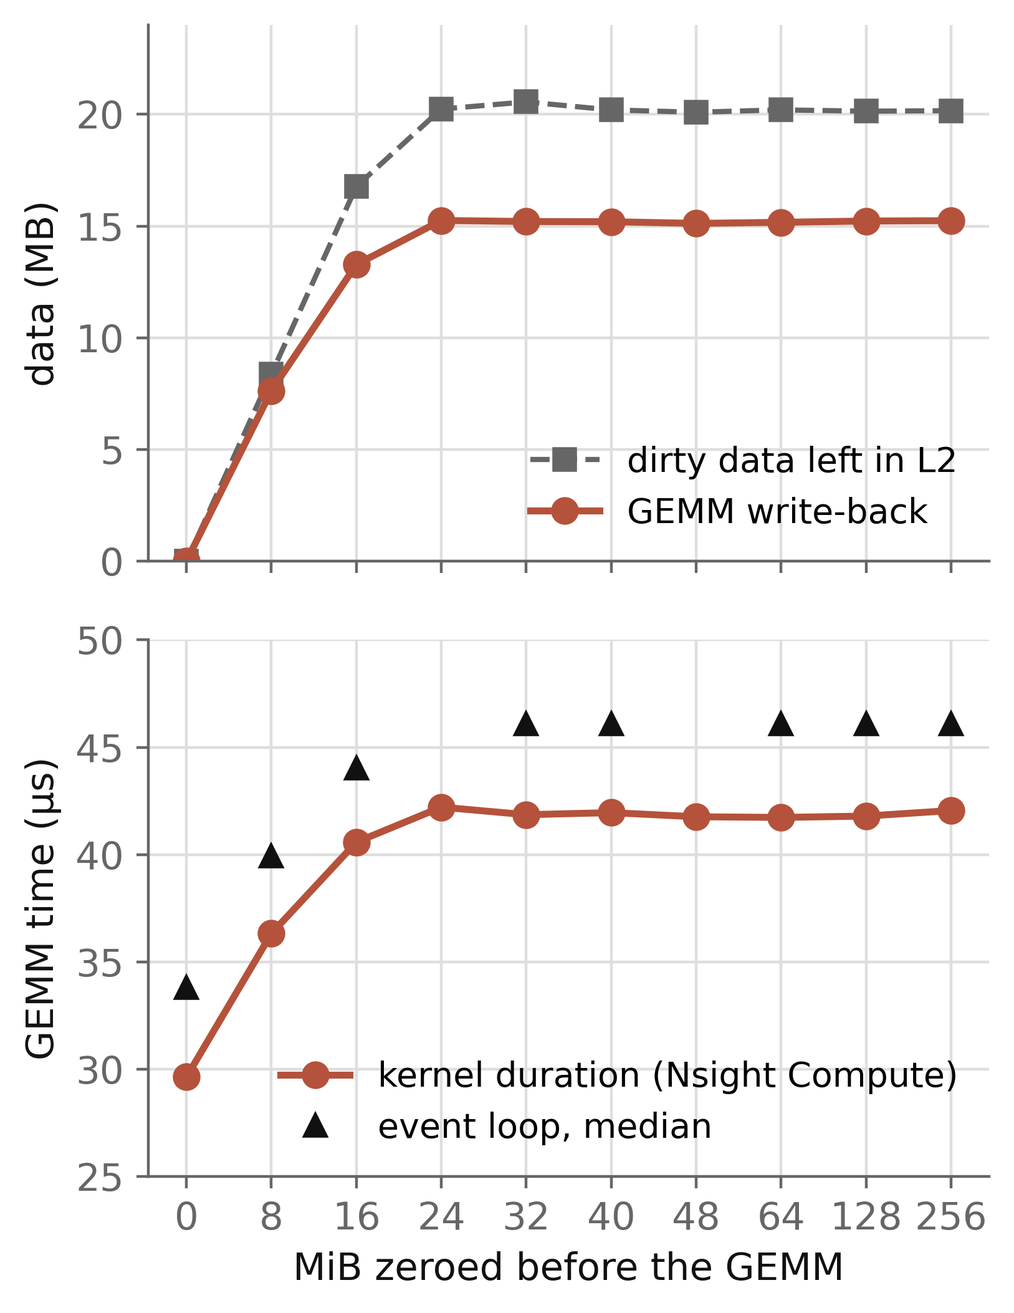
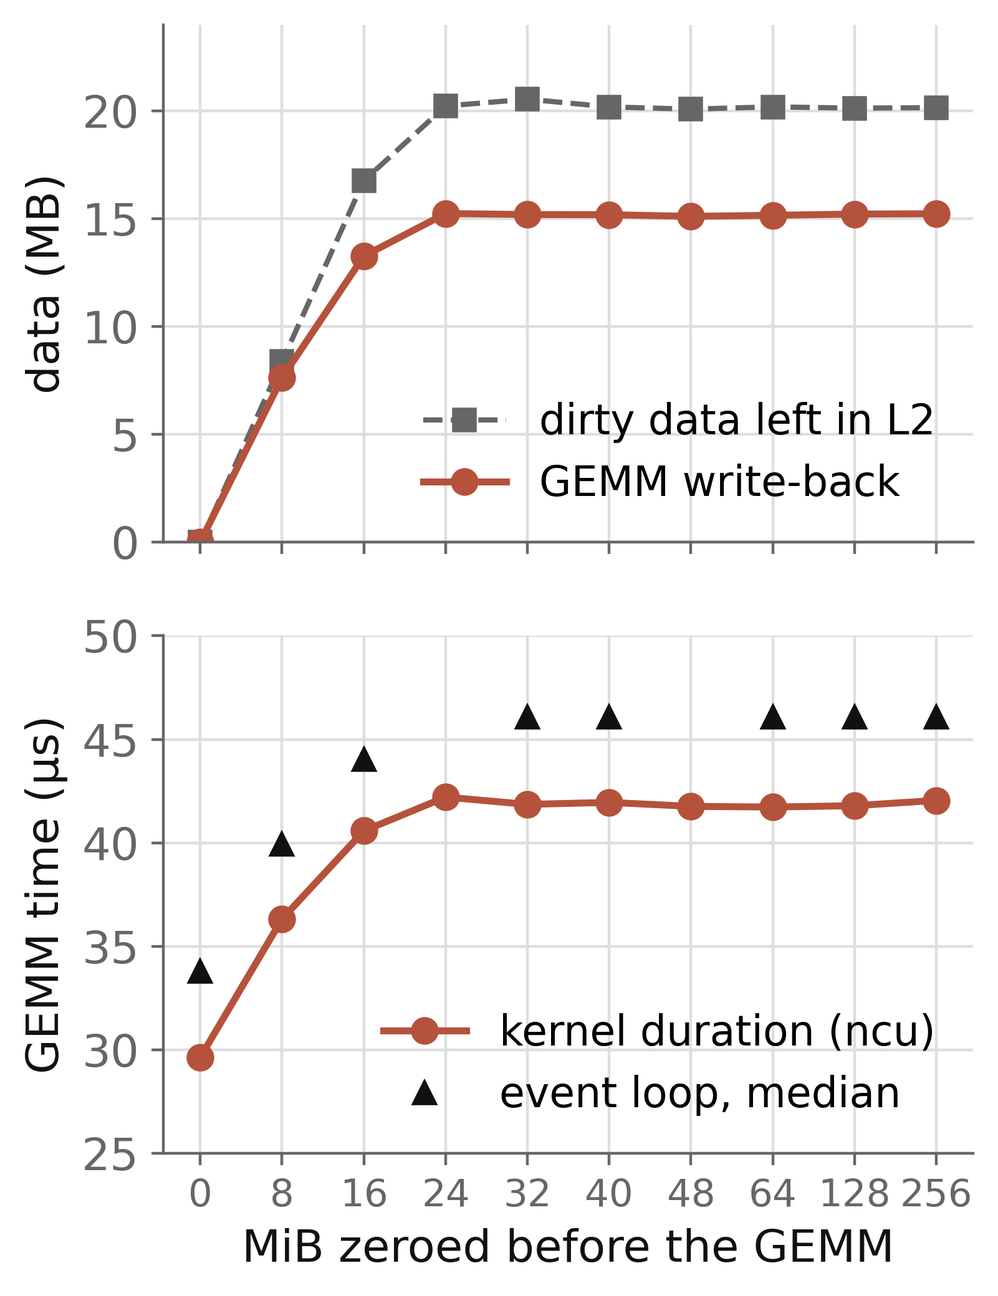
Revise do_bench note after live review
Consistent Nsight Compute numbers across sections, scoped deck, event vs
Nsight gap stated, larger figure text, social image, mobile table column.

diff --git a/writing/do-bench-dirty-l2/index.html b/writing/do-bench-dirty-l2/index.html
@@ -4,19 +4,24 @@
 <meta charset="utf-8">
 <meta name="viewport" content="width=device-width, initial-scale=1">
 <title>Triton’s do_bench L2 Flush Adds 12–20 µs to One-Row BF16 GEMMs on an A100 - Sense Wang</title>
-<meta name="description" content="triton.testing.do_bench clears L2 by writing zeros. The timed kernel then writes those dirty lines back to HBM. On an A100 this adds 12–20 µs to one-row BF16 GEMMs and can change which kernel looks faster. A read pass after the flush removes the cost.">
+<meta name="description" content="triton.testing.do_bench clears L2 with zero_(). On an A100 the dirty lines add 12–20 µs to one-row BF16 GEMMs. A read pass after the flush removes the cost.">
 <link rel="canonical" href="https://sensewang.com/writing/do-bench-dirty-l2/">
 <meta property="og:type" content="article">
 <meta property="og:site_name" content="Sense Wang">
 <meta property="og:title" content="Triton’s do_bench L2 Flush Adds 12–20 µs to One-Row BF16 GEMMs on an A100">
-<meta property="og:description" content="triton.testing.do_bench clears L2 by writing zeros. The timed kernel then writes those dirty lines back to HBM. On an A100 this adds 12–20 µs to one-row BF16 GEMMs and can change which kernel looks faster. A read pass after the flush removes the cost.">
+<meta property="og:description" content="triton.testing.do_bench clears L2 with zero_(). On an A100 the dirty lines add 12–20 µs to one-row BF16 GEMMs. A read pass after the flush removes the cost.">
 <meta property="og:url" content="https://sensewang.com/writing/do-bench-dirty-l2/">
 <meta property="og:locale" content="en_US">
+<meta property="og:image" content="https://sensewang.com/writing/do-bench-dirty-l2/assets/og-card.png">
+<meta property="og:image:width" content="1200">
+<meta property="og:image:height" content="630">
+<meta property="og:image:alt" content="Time per call of one 4096 × 4096 BF16 GEMM under five timing methods: 46.1 µs with the zero_() flush, 33.8 µs with a read flush, 29.2 µs in a rotating-weight CUDA graph.">
 <meta property="article:published_time" content="2026-10-30">
 <meta property="article:author" content="Sense Wang">
-<meta name="twitter:card" content="summary">
+<meta name="twitter:card" content="summary_large_image">
+<meta name="twitter:image" content="https://sensewang.com/writing/do-bench-dirty-l2/assets/og-card.png">
 <meta name="twitter:title" content="Triton’s do_bench L2 Flush Adds 12–20 µs to One-Row BF16 GEMMs on an A100">
-<meta name="twitter:description" content="triton.testing.do_bench clears L2 by writing zeros. The timed kernel then writes those dirty lines back to HBM. On an A100 this adds 12–20 µs to one-row BF16 GEMMs and can change which kernel looks faster. A read pass after the flush removes the cost.">
+<meta name="twitter:description" content="triton.testing.do_bench clears L2 with zero_(). On an A100 the dirty lines add 12–20 µs to one-row BF16 GEMMs. A read pass after the flush removes the cost.">
 <link rel="stylesheet" href="reader.css">
 <style>
   .site-nav { max-width:1440px; margin:0 auto 48px; padding:24px var(--gutter) 0; font-size:14px; line-height:20px; color:var(--muted); letter-spacing:normal; }
@@ -34,7 +39,7 @@
 
 <header class="article-header">
   <h1>Triton’s do_bench L2 Flush Adds <span style="white-space:nowrap">12–20&nbsp;µs</span> to One-Row BF16 GEMMs on an A100</h1>
-  <p class="deck">If you time short memory-bound kernels with <code>triton.testing.do_bench</code>, PyTorch Inductor, TileLang or nvbench, the number includes write-back of the flush buffer. A read pass after the flush removes it (section 5).</p>
+  <p class="deck">If you time memory-bound kernels that read less than a few hundred MB with <code>triton.testing.do_bench</code> or PyTorch Inductor, the number includes write-back of the flush buffer. Here that is 11–41% at 34–235 MB and 2.5% at 1.05 GB. TileLang and nvbench use the same kind of flush; I read their code but did not run them. A read pass after the flush removes the cost (section 5).</p>
   <p class="metadata">Sense Wang · October 2026</p>
 </header>
 
@@ -72,7 +77,7 @@ def clear_cache(self, cache):
     <p><strong>Setup.</strong> All measurements in sections 1–5 and 7 ran on one A100-PCIE-40GB, in one job. One Nsight Compute check in section 4 ran later on another A100 of the same server. Software: PyTorch 2.13.0 (CUDA 13.0 build), Triton 3.7.1, Nsight Compute 2025.1.1. Buffer sizes are in MiB. Byte counts from Nsight Compute are in MB (10<sup>6</sup> bytes). I wrote predictions before each run. Section 6 lists the ones that failed.</p>
 
     <h3>Write-back bytes in Nsight Compute</h3>
-    <p>I ran the GEMM under Nsight Compute with two options. <code>--cache-control none</code> keeps the profiler away from the cache. <code>--replay-mode application</code> takes each metric from a real pass of the whole program.</p>
+    <p>I ran the GEMM under Nsight Compute with three options. <code>--cache-control none</code> keeps the profiler away from the cache. <code>--clock-control none</code> leaves the GPU clocks as they are. <code>--replay-mode application</code> takes each metric from a real pass of the whole program.</p>
     <p>Before each GEMM, the program read a 256 MiB buffer, which leaves L2 clean. Then it zeroed a buffer of X MiB. Then it ran the GEMM. I repeated each case three times and report the median.</p>
     <p>With X = 0, the GEMM reads 33.56 MB, writes 0.02 MB and takes 29.63 µs. With X = 256, it reads the same 33.56 MB, writes 15.24 MB and takes 42.05 µs. Its own output is 8 KB, so the 15 MB is write-back of the zero buffer. The kernel takes 42% longer.</p>
     <p>The extra time matches the extra bytes. The clean kernel moves 33.56 MB at 1.13 TB/s. The dirty kernel moves 48.80 MB at 1.16 TB/s.</p>
@@ -81,19 +86,19 @@ def clear_cache(self, cache):
     <p>If the write-back causes the slowdown, the write-back and the time must both grow with X. Both must also stop growing at the same X. Figure 1 shows the result.</p>
   </div></div>
   <div class="layout block"><figure class="media">
-    <img src="assets/fig1-dose.png" alt="Two panels against MiB zeroed before the GEMM, from 0 to 256. Top: dirty data left in L2 rises to about 20 MB at 24 MiB, then stays flat. GEMM write-back rises to about 15 MB at 24 MiB, then stays flat. Bottom: GEMM kernel duration rises from about 30 to about 42 microseconds at 24 MiB, then stays flat. Event-loop medians follow the same shape about 4 microseconds higher." width="1627" height="2106" loading="lazy">
+    <a href="assets/fig1-dose.png"><img src="assets/fig1-dose.png" alt="Two panels against MiB zeroed before the GEMM, from 0 to 256. Top: dirty data left in L2 rises to about 20 MB at 24 MiB, then stays flat. GEMM write-back rises to about 15 MB at 24 MiB, then stays flat. Bottom: GEMM kernel duration rises from about 30 to about 42 microseconds at 24 MiB, then stays flat. Event-loop medians follow the same shape about 4 microseconds higher." width="1601" height="2080" loading="lazy"></a>
     <figcaption>Figure 1. A 4096 × 4096 BF16 GEMM with one input row, after a read flush and a zero_() flush of X MiB. The x axis is categorical. Top: HBM bytes written by the GEMM, from Nsight Compute. “Dirty data left in L2” is the bytes zeroed minus the fill kernel’s own HBM writes. Bottom: kernel duration in Nsight Compute, median of 3. Triangles: event-loop median of 1,500 samples, from a separate run without the profiler. That run used X = 0, 8, 16, 32, 40, 64, 128 and 256 MiB. Author’s measurements.</figcaption>
   </figure></div>
   <div class="layout block"><div class="prose">
     <p>A zero_() flush of 8 MiB leaves all 8.4 MB dirty, and the GEMM writes back 7.6 MB. At 16 MiB, the GEMM writes back 13.3 MB. From 24 MiB up, the fill kernel starts to write its own data to HBM. The GEMM write-back then stays at 15.1–15.3 MB. The kernel duration follows it: 29.6, 36.3, 40.6, then 41.7–42.2 µs. The slope is about 0.8 µs per MB of write-back.</p>
-    <p>The dirty data stops at about 19–20 MB. Two direct measurements agree. A read pass after a 256 MiB zero_() flush writes back 19.1–19.3 MB. A GEMM that reads 235 MB or 1.05 GB writes back 19.3–19.4 MB. The 4096 × 4096 GEMM reads only 33.6 MB and evicts 15 MB of the 19–20 MB.</p>
-    <p>I do not know why the limit is about half of the 40 MB L2. One hypothesis follows. Clean data has a similar limit. A buffer of 24 MiB that is read twice misses 1.0 MB on the second read. A buffer of 28 MiB misses 8.3 MB. The A100 L2 has two partitions, and each partition caches data for the SMs connected to it <a href="#ref-11">[11]</a>. If both partitions keep a copy of data that all SMs touch, the usable capacity is about 20 MB. I did not verify this.</p>
+    <p>The dirty data stops at about 20 MB. In Figure 1, the square markers show 20.0–20.6 MB. They are computed as the bytes zeroed minus the fill kernel’s own HBM writes. Two direct measurements give about 1 MB less. A read pass after a 256 MiB zero_() flush writes back 19.1–19.3 MB. A GEMM that reads 235 MB or 1.05 GB writes back 19.3–19.4 MB. The 4096 × 4096 GEMM reads only 33.6 MB and evicts about 15 MB of it.</p>
+    <p>I do not know why the limit is about half of the 40 MB L2. One hypothesis follows. Clean data has a similar limit. If L2 holds only about 20 MB of any data, a second read of a larger buffer must miss. A buffer of 24 MiB that is read twice misses 1.0 MB on the second read. A buffer of 28 MiB misses 8.3 MB. The A100 L2 has two partitions, and each partition caches data for the SMs connected to it <a href="#ref-11">[11]</a>. If both partitions keep a copy of data that all SMs touch, the usable capacity is about 20 MB. I did not verify this.</p>
 
     <h3>Six timing methods in one process</h3>
     <p>An event loop is a Python loop that records a CUDA event before and after each call. I compared six methods in one process, in three interleaved rounds. Each process starts with one second of warm-up, so the SM clock is at 1410 MHz. I repeated this in five independent processes. Figure 2 gives the median and interquartile range (IQR) of all samples.</p>
   </div></div>
   <div class="layout block"><figure class="media">
-    <img src="assets/fig2-methods.png" alt="Dot plot of time per call for one GEMM under six timing methods. do_bench with the zero_() flush and an event loop with the zero_() flush: 46.1 microseconds. Event loop with a read flush, and do_bench with the zero_() flush plus a read pass: 33.8. CUDA graph with 6 rotating weight copies: 29.2. do_bench_cudagraph with no flush: 24.4." width="1420" height="1675" loading="lazy">
+    <a href="assets/fig2-methods.png"><img src="assets/fig2-methods.png" alt="Dot plot of time per call for one GEMM under six timing methods. do_bench with the zero_() flush and an event loop with the zero_() flush: 46.1 microseconds. Event loop with a read flush, and do_bench with the zero_() flush plus a read pass: 33.8. CUDA graph with 6 rotating weight copies: 29.2. do_bench_cudagraph with no flush: 24.4." width="1427" height="1695" loading="lazy"></a>
     <figcaption>Figure 2. The same 4096 × 4096 BF16 GEMM, one input row, under six timing methods. Dot: median. Bar: IQR. For the two CUDA-graph rows, the IQR is narrower than the dot. 5 processes. The event timer has a resolution of about 1.02 µs, so event-loop medians fall on a 1.02 µs grid. Author’s measurements.</figcaption>
   </figure></div>
   <div class="layout block"><div class="prose">
@@ -103,7 +108,7 @@ def clear_cache(self, cache):
       <li>A CUDA graph that cycles through six weight copies (201 MB, about five times the L2 size) gives 29.18 µs per call. In Nsight Compute, each of these GEMMs reads the full 33.56 MB from HBM, so the weight is cold.</li>
       <li><code>do_bench_cudagraph</code> does not flush L2. It gives 24.40 µs, 4.8 µs less than the cold-weight graph, because part of the weight stays in L2.</li>
     </ul>
-    <p>For this shape, the event-loop medians are about 4 µs above the Nsight Compute kernel duration. For the four larger shapes, the event loop with a read flush and the rotating-weight graph differ by −1.0 to +2.6 µs. I did not find the cause of the 4 µs. Across the five processes, the per-process medians of each method differ by one timer step at most.</p>
+    <p>For this shape, the event-loop medians are about 4 µs above the Nsight Compute kernel duration. A second kernel does not cause this gap. In <code>torch.profiler</code>, <code>F.linear</code> with one row launches exactly one GEMM kernel per call for this shape. For the 4096 × 28672 shape, cuBLAS also launches a memset per call. For the four larger shapes, the event loop with a read flush and the rotating-weight graph differ by −1.0 to +2.6 µs. I did not find the cause of the 4 µs. Across the five processes, the per-process medians of each method differ by one timer step at most.</p>
   </div></div>
 </section>
 
@@ -113,11 +118,11 @@ def clear_cache(self, cache):
     <p>The write-back is at most 19–20 MB on this card. A kernel that moves a similar amount of data pays a large relative cost. Figure 3 shows the slowdown for five weight shapes from Llama 3.1 8B, each with one input row. The shapes are the output projection, fused QKV, down projection, fused gate and up projection, and the LM head.</p>
   </div></div>
   <div class="layout block"><figure class="media">
-    <img src="assets/fig3-size.png" alt="Slowdown of do_bench relative to an event loop with a read flush, against weight size on a log axis. 4096 × 4096 (34 MB): 36.4 percent, 12.3 microseconds. 4096 × 6144 (50 MB): 40.5 percent, 17.4. 14336 × 4096 (117 MB): 18.1 percent, 17.4. 4096 × 28672 (235 MB): 10.9 percent, 19.5. 4096 × 128256 (1.05 GB): 2.5 percent, 18.4." width="1579" height="1390" loading="lazy">
-    <figcaption>Figure 3. Median time with <code>do_bench</code> divided by median time with a read-flush event loop, for BF16 GEMMs with one input row. Labels give the shape K × N, the relative slowdown and the absolute difference. 5 processes. Author’s measurements.</figcaption>
+    <a href="assets/fig3-size.png"><img src="assets/fig3-size.png" alt="Slowdown of do_bench relative to an event loop with a read flush, against weight size on a log axis. 4096 × 4096 (34 MB): 36.4 percent, 12.3 microseconds. 4096 × 6144 (50 MB): 40.5 percent, 17.4. 14336 × 4096 (117 MB): 18.1 percent, 17.4. 4096 × 28672 (235 MB): 10.9 percent, 19.5. 4096 × 128256 (1.05 GB): 2.5 percent, 18.4." width="1604" height="1599" loading="lazy"></a>
+    <figcaption>Figure 3. Median time with <code>do_bench</code> divided by median time with a read-flush event loop, for BF16 GEMMs with one input row. The percentages use the event-loop median as the base. Nsight Compute kernel durations give 42%, 9.6% and 2.2% for the 34 MB, 235 MB and 1.05 GB shapes. Labels give the shape K × N, the relative slowdown and the absolute difference. 5 processes. Author’s measurements.</figcaption>
   </figure></div>
   <div class="layout block"><div class="prose">
-    <p>The absolute cost is 12.3–19.5 µs. The relative cost falls from 36–41% for weights of 34–50 MB to 10.9% at 235 MB and 2.5% at 1.05 GB. Nsight Compute gives the same trend: 42%, 9.6% and 2.2% for the 34 MB, 235 MB and 1.05 GB weights. I did not measure compute-bound shapes.</p>
+    <p>The absolute cost is 12.3–19.5 µs. The relative cost falls from 36–41% for weights of 34–50 MB to 18.1% at 117 MB, 10.9% at 235 MB and 2.5% at 1.05 GB. Nsight Compute gives the same trend: 42%, 9.6% and 2.2% for the 34 MB, 235 MB and 1.05 GB weights. I did not measure compute-bound shapes.</p>
 
     <h3>The flush can change which kernel looks faster</h3>
     <p>The cost depends on how much the timed kernel reads. A kernel that reads less evicts fewer dirty lines and pays less. So a zero_() flush can favor a kernel that reads fewer bytes, or one that uses less of the HBM bandwidth.</p>
@@ -136,32 +141,32 @@ def clear_cache(self, cache):
   </div></div>
   <div class="layout block"><div class="prose">
     <p>With the read flush, the second INT8 configuration is 15% slower than cuBLAS. With the zero_() flush, it is 7% faster. 9 of the 96 configurations change rank in this way by at least 2 µs on each side, in all three processes. 5 more change rank by one timer step (1.02 µs) on one side. No configuration changes rank in the other direction. With the read flush, 55–57 configurations are faster than cuBLAS. With the zero_() flush, 71 are faster.</p>
-    <p>Nsight Compute on another A100 of the same server confirms the flip for the configuration in Table 1. Its kernel takes 35.7 µs against 30.3 µs for cuBLAS after a read flush. After a zero_() flush, it takes 39.2 µs against 41.8 µs. Here cuBLAS writes back 15.6 MB and the INT8 kernel writes back 6.7 MB. Per MB of write-back, cuBLAS pays 0.74 µs and the fastest INT8 configuration 0.84 µs. The Table 1 configuration pays only 0.53 µs per MB, probably because it uses less of the HBM bandwidth. The fastest INT8 configuration looks 1.65 times faster than cuBLAS with the read flush and 1.73–1.77 times faster with the zero_() flush, across the three processes. GEAK saw the same direction on an AMD MI355X. A decode speedup of 1.12 with a read flush became 1.40 with a write flush <a href="#ref-8">[8]</a>.</p>
+    <p>Nsight Compute on another A100 of the same server confirms the flip for the configuration in Table 1. Its kernel takes 35.7 µs against 30.3 µs for cuBLAS after a read flush. After a zero_() flush, it takes 39.2 µs against 41.8 µs. Here cuBLAS writes back 15.6 MB and the INT8 kernel writes back 6.7 MB. Per MB of write-back, cuBLAS pays 0.74 µs and the fastest INT8 configuration 0.84 µs. The Table 1 configuration pays only 0.53 µs per MB, probably because it uses less of the HBM bandwidth. The fastest INT8 configuration looks 1.65 times faster than cuBLAS with the read flush. With the zero_() flush, it looks 1.73–1.77 times faster across the three processes. GEAK saw the same direction on an AMD MI355X. A decode speedup of 1.12 with a read flush became 1.40 with a write flush <a href="#ref-8">[8]</a>.</p>
 
     <h3>Which tools flush with a write</h3>
     <p>I read the benchmark code of several tools on 2026-10-30. Table 2 gives the result.</p>
   </div></div>
   <div class="layout block"><div class="prose">
-    <p class="table-caption">Table 2. How benchmark helpers prepare L2 before a timed call. “Write” means the flush leaves dirty lines.</p>
+    <p class="table-caption">Table 2. How benchmark helpers prepare L2 before a timed call. “Write” means the flush leaves dirty lines. The Proton functions exist from Triton v3.8.0.</p>
     <div class="table-wrap"><table>
-      <thead><tr><th>Tool</th><th>Flush before each call</th><th>Type</th></tr></thead>
+      <thead><tr><th>Tool</th><th>Type</th><th>Flush before each call</th></tr></thead>
       <tbody>
-        <tr><td>Triton <code>do_bench</code>, v2.0.0 to v3.9.0 and main</td><td><code>zero_()</code>, 256 MiB (256e6 B before v3.2)</td><td>write</td></tr>
-        <tr><td>Triton <code>do_bench_proton</code>, <code>do_bench_cudagraph_proton</code> (v3.8.0 and later)</td><td><code>zero_()</code>, 256 MiB</td><td>write</td></tr>
-        <tr><td>Triton <code>do_bench_cudagraph</code></td><td>none</td><td>warm L2</td></tr>
-        <tr><td>PyTorch Inductor default benchmarker</td><td><code>zero_()</code>, L2 size</td><td>write</td></tr>
-        <tr><td>TileLang <code>do_bench</code></td><td><code>zero_()</code>, 256 MiB</td><td>write</td></tr>
-        <tr><td>ThunderKittens <code>benchmark_l2_clear</code></td><td><code>random_()</code>, 128 MiB</td><td>write</td></tr>
-        <tr><td>NVIDIA nvbench</td><td><code>cudaMemsetAsync</code>, L2 size</td><td>write</td></tr>
-        <tr><td>GPU MODE reference-kernels</td><td><code>torch.randn</code>, 4 GiB</td><td>write</td></tr>
-        <tr><td><code>torch.utils.benchmark.Timer</code></td><td>none</td><td>warm L2</td></tr>
-        <tr><td>Nsight Compute, <code>--cache-control all</code></td><td>driver operation; a write kernel on vGPU</td><td>clean on this A100</td></tr>
+        <tr><td>Triton <code>do_bench</code></td><td>write</td><td><code>zero_()</code>, 256 MiB</td></tr>
+        <tr><td>Triton <code>do_bench_proton</code>, <code>do_bench_cudagraph_proton</code></td><td>write</td><td><code>zero_()</code>, 256 MiB</td></tr>
+        <tr><td>Triton <code>do_bench_cudagraph</code></td><td>warm L2</td><td>none</td></tr>
+        <tr><td>PyTorch Inductor default benchmarker</td><td>write</td><td><code>zero_()</code>, L2 size</td></tr>
+        <tr><td>TileLang <code>do_bench</code></td><td>write</td><td><code>zero_()</code>, 256 MiB</td></tr>
+        <tr><td>ThunderKittens <code>benchmark_l2_clear</code></td><td>write</td><td><code>random_()</code>, 128 MiB</td></tr>
+        <tr><td>NVIDIA nvbench</td><td>write</td><td><code>cudaMemsetAsync</code>, L2 size</td></tr>
+        <tr><td>GPU MODE reference-kernels</td><td>write</td><td><code>torch.randn</code>, 4 GiB</td></tr>
+        <tr><td><code>torch.utils.benchmark.Timer</code></td><td>warm L2</td><td>none</td></tr>
+        <tr><td>Nsight Compute, <code>--cache-control all</code></td><td>clean here</td><td>driver operation; a write kernel on vGPU</td></tr>
       </tbody>
     </table></div>
   </div></div>
   <div class="layout block"><div class="prose">
     <ul>
-      <li><strong>Triton.</strong> All releases from v2.0.0 to v3.9.0 (2026-10-27) and main at efd1112 use the zero_() flush <a href="#ref-3">[3]</a>. The Proton functions came in PR #10149 and first shipped in v3.8.0. They time only the kernel and still call the same flush <a href="#ref-12">[12]</a>. I read this code and did not run it.</li>
+      <li><strong>Triton.</strong> All releases from v2.0.0 to v3.9.0 (2026-10-27) and main at efd1112 use the zero_() flush. The buffer is 256e6 bytes before v3.2 and 256 MiB from v3.2 <a href="#ref-3">[3]</a>. The Proton functions came in PR #10149 and first shipped in v3.8.0. They time only the kernel and still call the same flush <a href="#ref-12">[12]</a>. I read this code and did not run it.</li>
       <li><strong>Timing only the kernel does not remove the cost.</strong> The write-back happens inside the timed kernel. The Nsight Compute kernel durations in Figure 1 show it: 29.6 µs clean, 42.1 µs after the zero_() flush.</li>
       <li><strong>PyTorch Inductor.</strong> In 2.13.0 and on main, the default benchmarker is <code>InductorBenchmarker</code>, which autotuning calls <a href="#ref-4">[4]</a>. Each call returns the minimum of its samples. On the 4096 × 4096 GEMM, five calls returned 45.1–49.2 µs. A read-flush event loop in the same process had a minimum of 32.8 µs. I did not test whether max-autotune, the mode that benchmarks candidate configurations, picks a different one.</li>
       <li><strong>Nsight Compute.</strong> On this bare-metal A100, I profiled the GEMM after a 256 MiB zero_() flush with <code>--cache-control all</code>. The first GEMM wrote 2.1 MB; each later GEMM wrote 3.2 KB. The reply in [2] states that on vGPU, the profiler clears L2 with a write kernel.</li>
@@ -230,7 +235,7 @@ print(f"zero_: {t_zero*1e3:.1f} us  "
   <div class="layout block"><div class="prose">
     <h2 id="s7">7. Reproducing the numbers</h2>
     <p>The snippet in section 5 runs in a few seconds. I ran it three times as printed. It gave 53.2 and 33.8 µs, 50.2 and 37.9 µs, and 48.1 and 33.8 µs. The absolute numbers move with the GPU clock, and the gap of 12–20 µs stays. The warm-up line is necessary. Without it, an earlier job on the same GPU slot started at an SM clock of 795 MHz.</p>
-    <p>To see the write-back bytes, run this program under Nsight Compute.</p>
+    <p>To see the write-back bytes, run this program under Nsight Compute. It runs each L2 state twice, because the first profiled GEMM is about 2 µs slower.</p>
 <pre><code># dirty_l2.py
 import torch, torch.nn.functional as F
 MiB = 1 &lt;&lt; 20
@@ -242,9 +247,12 @@ W = torch.randn(4096, 4096, device=dev, dtype=bf16)
 x = torch.randn(1, 4096, device=dev, dtype=bf16)
 F.linear(x, W); torch.cuda.synchronize()
 torch.cuda.profiler.start()
-rbuf.sum(); F.linear(x, W)                # clean L2
-zbuf.zero_(); F.linear(x, W)              # dirty L2
-zbuf.zero_(); rbuf.sum(); F.linear(x, W)  # read pass
+for _ in range(2):                  # clean L2
+    rbuf.sum(); F.linear(x, W)
+for _ in range(2):                  # dirty L2
+    zbuf.zero_(); F.linear(x, W)
+for _ in range(2):                  # read pass
+    zbuf.zero_(); rbuf.sum(); F.linear(x, W)
 torch.cuda.synchronize()
 torch.cuda.profiler.stop()</code></pre>
 <pre><code>ncu --cache-control none --clock-control none \
@@ -252,7 +260,7 @@ torch.cuda.profiler.stop()</code></pre>
     --metrics gpu__time_duration.sum,\
 dram__bytes_read.sum,dram__bytes_write.sum \
     python dirty_l2.py</code></pre>
-    <p>On the A100 of this post, the three GEMMs took 33.2, 42.7 and 31.5 µs. They wrote 0.12, 15.6 and 0.05 MB to HBM, and each read 33.6 MB. If you have an H100 or a B200, these three lines show whether the effect is larger there.</p>
+    <p>I ran it three times on another A100 of the same server, with the same <code>--clock-control none</code> as in section 3. The first clean GEMM took 32.6–32.8 µs and wrote 0.12 MB. For the second GEMM of each pair, the medians are 30.8 µs (clean), 43.1 µs (dirty) and 30.1 µs (read pass). They wrote 0.01, 15.4–15.6 and 0.04 MB or less, and each read 33.6 MB. These values are within about 1 µs of section 3. If you have an H100 or a B200, these three lines show whether the effect is larger there.</p>
   </div></div>
 </section>
 
